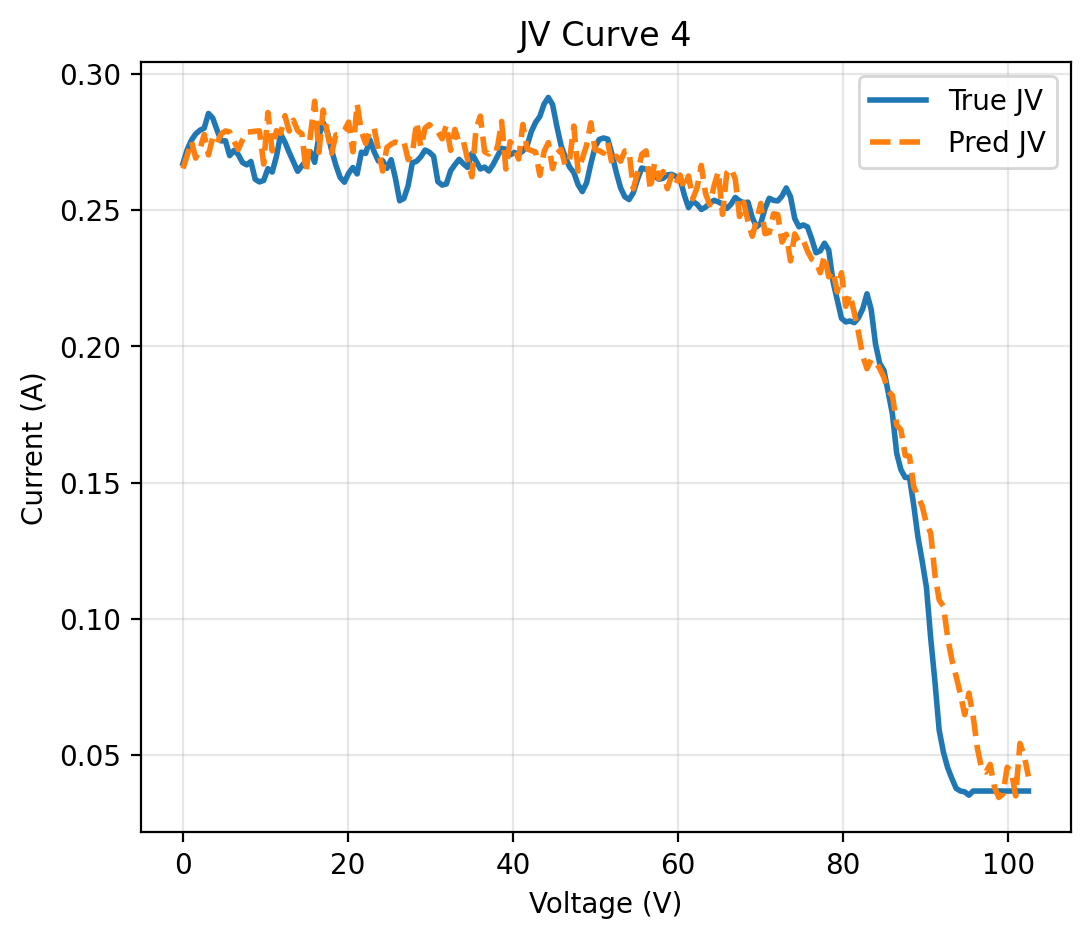
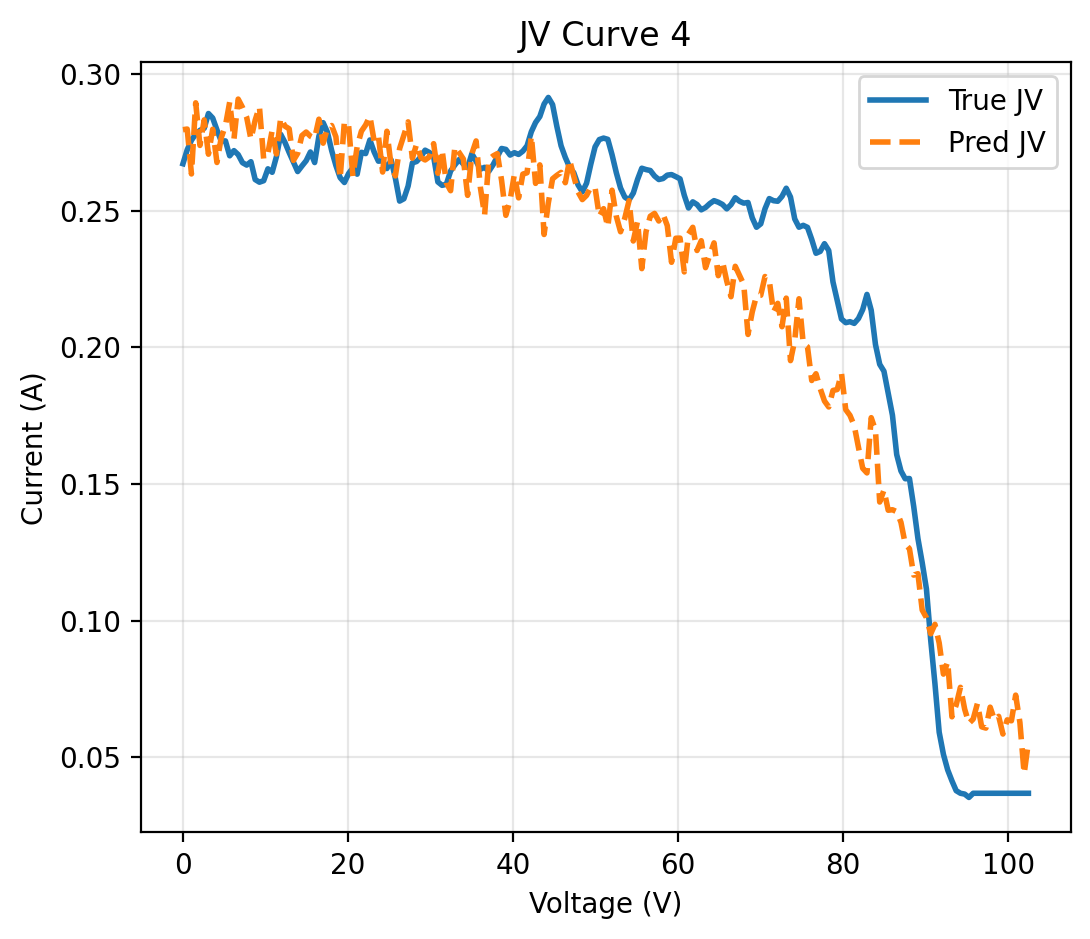
Correct Rsh Prediction

diff --git a/train_autoencoder.py b/train_autoencoder.py
@@ -17,6 +17,7 @@ class JVPhysicsDataset(Dataset):
         self.weather = data["weather"].astype(np.float32)
         self.V_grid = data["V_grid"].astype(np.float32)
         self.diode_params = data["diode_params"].astype(np.float32)
+        # self.diode_params[:, 1] = np.log(self.diode_params[:, 1])
 
         # compute normalization stats for diode params
         self.diode_mean = self.diode_params.mean(axis=0)
@@ -112,12 +113,14 @@ def train(
             loss_params = loss_fn_params(diode_pred_norm, diode_norm)
             loss_residual = (delta_I ** 2).mean()
             loss_latent = (z ** 2).mean()
+            loss_phys = loss_fn_jv(I_phys, jv_tgt)
 
             loss = (
                 loss_recon
                 + lambda_params * loss_params
                 + lambda_residual * loss_residual
                 + lambda_latent * loss_latent
+                + 0.2 * loss_phys
             )
 
             loss.backward()
@@ -151,12 +154,14 @@ def train(
                 loss_params = loss_fn_params(diode_pred_norm, diode_norm)
                 loss_residual = (delta_I ** 2).mean()
                 loss_latent = (z ** 2).mean()
+                loss_phys = loss_fn_jv(I_phys, jv_tgt)
 
                 loss = (
                     loss_recon
                     + lambda_params * loss_params
                     + lambda_residual * loss_residual
                     + lambda_latent * loss_latent
+                    + 0.02 * loss_phys
                 )
 
                 val_loss += loss.item() * jv_in.size(0)

diff --git a/predict_params.py b/predict_params.py
@@ -199,12 +199,12 @@ def evaluate_diode_model(
             "Pmpp_pred": Pmpp_p,
             "FF_true": FF_t,
             "FF_pred": FF_p,
-            "Iph_true": Iph_t,
-            "Iph_pred": Iph_p,
-            "Io_true": Io_t,
-            "Io_pred": Io_p,
-            "n_true": n_t,
-            "n_pred": n_p,
+            # "Iph_true": Iph_t,
+            # "Iph_pred": Iph_p,
+            # "Io_true": Io_t,
+            # "Io_pred": Io_p,
+            # "n_true": n_t,
+            # "n_pred": n_p,
             "Rs_true": Rs_t,
             "Rs_pred": Rs_p,
             "Rsh_true": Rsh_t,
@@ -256,8 +256,8 @@ def evaluate_diode_model(
 
 if __name__ == "__main__":
     preds, physics_results = evaluate_diode_model(
-        model_path="models/jv_autoencoder_silicon.pth",
-        dataset_path="data/jv_autoencoder_dataset_silicon.npz",
-        tech="SunPower_5-1",
+        model_path="models/jv_autoencoder_perovskite.pth",
+        dataset_path="data/jv_autoencoder_dataset_perovskite.npz",
+        tech="Perovskite_5&6",
         num_curves=10,
     )

diff --git a/model_autoencoder.py b/model_autoencoder.py
@@ -223,7 +223,7 @@ class PhysicsInformedJVModel(nn.Module):
         # # Io: tiny positive range (log-scale)
         # # Io = torch.exp(torch.clamp(diode_raw[:, 1], min=-30.0, max=-5.0))
         logIo = diode_raw[:, 1]
-        Io = torch.exp(logIo)
+        Io = diode_raw[:, 1]#torch.exp(logIo)
         # Iph = 3.0 * torch.sigmoid(diode_raw[:, 0])
         #
         # logIo = -30 + 25 * torch.sigmoid(diode_raw[:, 1])
@@ -237,7 +237,8 @@ class PhysicsInformedJVModel(nn.Module):
 
         # Rsh: shunt resistance in [10, 1e5]
         # Rsh = 10.0 + (1e5 - 10.0) * torch.sigmoid(diode_raw[:, 4])
-        Rsh = 100.0 + (1e5 - 100.0) * torch.sigmoid(diode_raw[:, 4])
+        # Rsh = 100.0 + (1e5 - 100.0) * torch.sigmoid(diode_raw[:, 4])
+        Rsh = diode_raw[:, 4]
 
         batch_size = jv.shape[0]
         V = self.voltage_grid.unsqueeze(0).expand(batch_size, -1)

diff --git a/plot_jv.py b/plot_jv.py
@@ -218,9 +218,9 @@ def plot_multiple_predictions(
 if __name__ == "__main__":
 
     plot_multiple_predictions(
-        dataset_path="data/jv_autoencoder_dataset_silicon.npz",
-        model_path="models/jv_autoencoder_silicon.pth",
+        dataset_path="data/jv_autoencoder_dataset_perovskite.npz",
+        model_path="models/jv_autoencoder_perovskite.pth",
         n_samples=10,
         random_samples=True,
-        save_dir="outputs/SunPower_5-1/ae/curves",
+        save_dir="outputs/Perovskite_5&6/ae/curves",
     )
